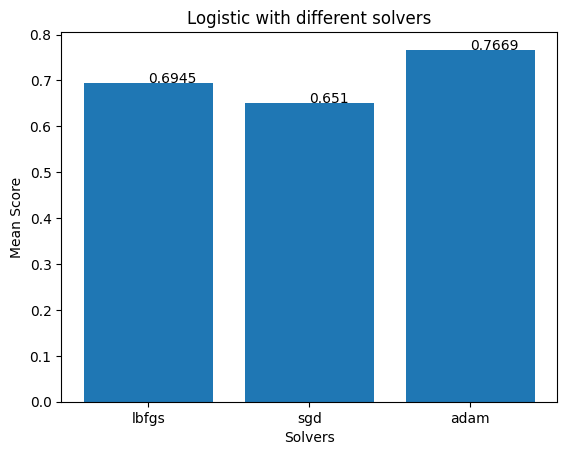
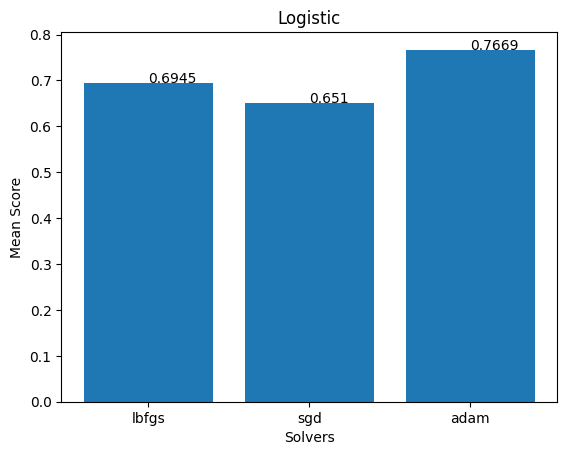
Split files and made more tests

Changed region(s): [[0.3298, 0.0, 0.7795, 0.0615]]

diff --git a/TestCase2-Hidden_Layers.py b/TestCase2-Hidden_Layers.py
@@ -1,12 +1,9 @@
 import pandas as pd
-import numpy as np
 import matplotlib.pyplot as plt
-import random
 from sklearn.model_selection import train_test_split
 from sklearn.preprocessing import StandardScaler
 from sklearn.neural_network import MLPClassifier
 from sklearn.metrics import confusion_matrix
-
 
 # Function to split data into test and training data
 def split_data(csv, train_ratio, random_val, scale=True):
@@ -31,53 +28,6 @@ def neural_network(data, hidden_layer_size, activation, solver, max_iter, shuffl
     prediction = mlp.predict(data[1])
     return [prediction, confusion_matrix(data[3], prediction), mlp.score(data[1], data[3])]
 
-# Test different combinations of activation functions and solvers
-def activation_solver_test(csv):
-    # Different activation and solver combinations
-    activations = ["identity", "logistic", "tanh", "relu"]
-    solvers = ["lbfgs", "sgd", "adam"]
-
-    # Test variables
-    num_test = 20
-    max_iteration = 50000
-    hidden_layer = (20, 20)
-    train_ratio = 0.8
-    compiled_results = [[] for i in range(len(activations))]
-    plt.figure()
-
-    # Run tests
-    for test in range(num_test):
-        print("Test run {} beginning".format(test+1))
-        data = split_data(csv, train_ratio, test, True)
-        for activation in activations:
-            for solver in solvers:
-                compiled_results[activations.index(activation)].append(neural_network(data, hidden_layer, activation, solver, max_iteration, False, test))
-            print("Activation {} completed".format(activation.upper()))
-        print("Test run {} completed\n".format(test+1))
-
-    # Plotting Figures
-    for i in range(len(activations)):
-        avg_score = []
-        
-        # Calculating mean score of all test
-        for j in range(len(solvers)):
-            avg_score.append((sum([result[2] for result in compiled_results[i][j::3]])/num_test))
-        
-        # Adding score value to figure
-        for j in range(len(solvers)):
-            plt.text(j, avg_score[j], round(avg_score[j], 4))
-
-        # Plotting
-        plt.bar(solvers, avg_score)
-        plt.title(activations[i].capitalize())
-        plt.ylabel("Mean Score")
-        plt.xlabel("Solvers")
-        plt.savefig("figures/activation_solver_test/{} with different solvers".format(activations[i].capitalize()),bbox_inches="tight")
-        plt.show()
-        plt.figure()
-
-    print("Activation-Solver test completed")
-
 # Test different number of hidden layer and neurons in each layer
 def hidden_layer_test(csv):
     # Best activation function and solver combination found
@@ -87,8 +37,8 @@ def hidden_layer_test(csv):
     # Test variables
     num_test = 20
     train_ratio = 0.8
-    max_layers = 5
-    max_neuron = 40
+    max_layers = 6
+    max_neuron = 60
     neuron_iterate = 1
     max_iteration = 50000
     results = [[[] for j in range(max_neuron//neuron_iterate)] for i in range(max_layers)]
@@ -115,7 +65,6 @@ def hidden_layer_test(csv):
 
         # Plotting
         plt.plot(x, y, "bo--")
-        y_min, y_max = plt.gca().get_ylim()
         for i,j in zip(x,y):
             if j != y[i//neuron_iterate-2]:
                 plt.annotate(str(round(j,4)),xy=(i,j))
@@ -126,16 +75,12 @@ def hidden_layer_test(csv):
         plt.savefig("figures/hidden_layer_test/{} Hidden Layer".format(num_layer+1),bbox_inches="tight")
         plt.show()
         plt.figure()
-        
-        
-def iteration_test(csv):
-    pass
 
 def main():
     # Reading csv file into dataframe
     csv = pd.read_csv("diabetes.csv")
-
-    # activation_solver_test(csv)
+    
+    # Run test function
     hidden_layer_test(csv)
 
 if __name__ == "__main__":

diff --git a/TestCase1-Activation_and_Solver.py b/TestCase1-Activation_and_Solver.py
@@ -1,0 +1,86 @@
+import pandas as pd
+import matplotlib.pyplot as plt
+from sklearn.model_selection import train_test_split
+from sklearn.preprocessing import StandardScaler
+from sklearn.neural_network import MLPClassifier
+from sklearn.metrics import confusion_matrix
+
+# Function to split data into test and training data
+def split_data(csv, train_ratio, random_val, scale=True):
+    # Splitting values into results and training data
+    result = csv.loc[:,'Outcome']
+    data = csv.drop('Outcome', 'columns')
+    x_train, x_test, y_train, y_test = train_test_split(data, result, train_size=train_ratio, random_state=random_val)
+
+    if scale:
+        # Scaling values
+        scaler = StandardScaler()
+        scaler.fit(x_train)
+        x_train = scaler.transform(x_train)
+        x_test = scaler.transform(x_test)
+
+    return [x_train, x_test, y_train, y_test]
+
+# Generates neural network and runs fitting and prediction. Returns predictions, confusion matrix, and score
+def neural_network(data, hidden_layer_size, activation, solver, max_iter, shuffle = True, random_state = None):
+    mlp = MLPClassifier(hidden_layer_size, activation=activation, solver=solver, max_iter=max_iter, shuffle=shuffle, random_state=random_state)
+    mlp.fit(data[0], data[2])
+    prediction = mlp.predict(data[1])
+    return [prediction, confusion_matrix(data[3], prediction), mlp.score(data[1], data[3])]
+
+# Test different combinations of activation functions and solvers
+def activation_solver_test(csv):
+    # Different activation and solver combinations
+    activations = ["identity", "logistic", "tanh", "relu"]
+    solvers = ["lbfgs", "sgd", "adam"]
+
+    # Test variables
+    num_test = 20
+    max_iteration = 50000
+    hidden_layer = (20, 20)
+    train_ratio = 0.8
+    compiled_results = [[] for i in range(len(activations))]
+    plt.figure()
+
+    # Run tests
+    for test in range(num_test):
+        print("Test run {} beginning".format(test+1))
+        data = split_data(csv, train_ratio, test, True)
+        for activation in activations:
+            for solver in solvers:
+                compiled_results[activations.index(activation)].append(neural_network(data, hidden_layer, activation, solver, max_iteration, False, test))
+            print("Activation {} completed".format(activation.upper()))
+        print("Test run {} completed\n".format(test+1))
+
+    # Plotting Figures
+    for i in range(len(activations)):
+        avg_score = []
+        
+        # Calculating mean score of all test
+        for j in range(len(solvers)):
+            avg_score.append((sum([result[2] for result in compiled_results[i][j::3]])/num_test))
+        
+        # Adding score value to figure
+        for j in range(len(solvers)):
+            plt.text(j, avg_score[j], round(avg_score[j], 4))
+
+        # Plotting
+        plt.bar(solvers, avg_score)
+        plt.title(activations[i].capitalize())
+        plt.ylabel("Mean Score")
+        plt.xlabel("Solvers")
+        plt.savefig("figures/activation_solver_test/{} with different solvers".format(activations[i].capitalize()),bbox_inches="tight")
+        plt.show()
+        plt.figure()
+
+    print("Activation-Solver test completed")
+
+def main():
+    # Reading csv file into dataframe
+    csv = pd.read_csv("diabetes.csv")
+    
+    # Test function
+    activation_solver_test(csv)
+
+if __name__ == "__main__":
+    main()

diff --git a/TestCase3-Iteration_test.py b/TestCase3-Iteration_test.py
@@ -1,0 +1,76 @@
+import pandas as pd
+import matplotlib.pyplot as plt
+from sklearn.model_selection import train_test_split
+from sklearn.preprocessing import StandardScaler
+from sklearn.neural_network import MLPClassifier
+from sklearn.metrics import confusion_matrix
+
+# Function to split data into test and training data
+def split_data(csv, train_ratio, random_val, scale=True):
+    # Splitting values into results and training data
+    result = csv.loc[:,'Outcome']
+    data = csv.drop('Outcome', 'columns')
+    x_train, x_test, y_train, y_test = train_test_split(data, result, train_size=train_ratio, random_state=random_val)
+
+    if scale:
+        # Scaling values
+        scaler = StandardScaler()
+        scaler.fit(x_train)
+        x_train = scaler.transform(x_train)
+        x_test = scaler.transform(x_test)
+
+    return [x_train, x_test, y_train, y_test]
+
+# Generates neural network and runs fitting and prediction. Returns predictions, confusion matrix, and score
+def neural_network(data, hidden_layer_size, activation, solver, max_iter, shuffle = True, random_state = None):
+    mlp = MLPClassifier(hidden_layer_size, activation=activation, solver=solver, max_iter=max_iter, shuffle=shuffle, random_state=random_state)
+    mlp.fit(data[0], data[2])
+    prediction = mlp.predict(data[1])
+    return [prediction, confusion_matrix(data[3], prediction), mlp.score(data[1], data[3])]
+
+def iteration_test(csv):
+    # Best activation function and solver combination found
+    activation = "identity"
+    solver = "lbfgs"
+    
+    # Test variables
+    num_test = 20
+    train_ratio = 0.8
+    hidden_layer = (6, 6, 6, 6)
+    iteration_cap = 1000
+    iteration_hops = 5
+    results = [[] for count in range(iteration_cap//iteration_hops)]
+
+    # Run test
+    for test in range(num_test):
+        print("Test run {} beginning".format(test+1))
+        data = split_data(csv, train_ratio, test, True)
+        for max_iteration in range(iteration_hops, iteration_cap+iteration_hops, iteration_hops):
+            results[max_iteration//iteration_hops-1].append(neural_network(data, hidden_layer, activation, solver, max_iteration, False, test)[2])
+        print("Test run {} completed\n".format(test+1))
+        
+    # Plotting Figure
+    x = [max_iteration for max_iteration in range(iteration_hops, iteration_cap+iteration_hops, iteration_hops)]
+    y = [sum(result)/num_test for result in results]
+
+    plt.figure()
+    plt.plot(x,y)
+    for i,j in zip(x,y):
+            if j != y[i//iteration_hops-2]:
+                plt.annotate(str(round(j,4)),xy=(i,j))
+                
+    plt.title("Iteration Test")
+    plt.ylabel("Mean Score")
+    plt.xlabel("Number of Iterations")
+    plt.savefig("figures/iteration_test/Iteration Test",bbox_inches="tight")
+    plt.show()
+
+def main():
+    # Reading csv file into dataframe
+    csv = pd.read_csv("diabetes.csv")
+    
+    # Run test function
+    iteration_test(csv)
+
+if __name__ == "__main__":
+    main()

diff --git a/FinalTest.py b/FinalTest.py
@@ -1,0 +1,67 @@
+import pandas as pd
+import matplotlib.pyplot as plt
+from sklearn.model_selection import train_test_split
+from sklearn.preprocessing import StandardScaler
+from sklearn.neural_network import MLPClassifier
+from sklearn.metrics import confusion_matrix
+
+# Function to split data into test and training data
+def split_data(csv, train_ratio, random_val, scale=True):
+    # Splitting values into results and training data
+    result = csv.loc[:,'Outcome']
+    data = csv.drop('Outcome', 'columns')
+    x_train, x_test, y_train, y_test = train_test_split(data, result, train_size=train_ratio, random_state=random_val)
+
+    if scale:
+        # Scaling values
+        scaler = StandardScaler()
+        scaler.fit(x_train)
+        x_train = scaler.transform(x_train)
+        x_test = scaler.transform(x_test)
+
+    return [x_train, x_test, y_train, y_test]
+
+# Generates neural network and runs fitting and prediction. Returns predictions, confusion matrix, and score
+def neural_network(data, hidden_layer_size, activation, solver, max_iter, shuffle = True, random_state = None):
+    mlp = MLPClassifier(hidden_layer_size, activation=activation, solver=solver, max_iter=max_iter, shuffle=shuffle, random_state=random_state)
+    mlp.fit(data[0], data[2])
+    prediction = mlp.predict(data[1])
+    return [prediction, confusion_matrix(data[3], prediction), mlp.score(data[1], data[3])]
+
+# Test performance with all optimized values
+def final_test(csv):
+    # Best activation function and solver combination found
+    activation = "identity"
+    solver = "lbfgs"
+    
+    # Test variables
+    num_test = 5
+    train_ratio = 0.8
+    hidden_layer = (6, 6, 6, 6)
+    max_iteration = 100
+    results = [[], []]
+
+    # Run test
+    for test in range(num_test):
+        print("Test run {} beginning".format(test+1))
+        data = split_data(csv, train_ratio, test, True)
+        result = neural_network(data, hidden_layer, activation, solver, max_iteration, True, test)
+        results[0].append(result[1])
+        results[1].append(result[2])
+        print("Test run {} completed\n".format(test+1))
+        
+    # Compile and print results
+    mean_score = sum(results[1])/num_test
+    print("Mean Score: {}".format(mean_score))
+    print("Summed Confusion Matrix:")
+    print(sum(results[0]))
+
+def main():
+    # Reading csv file into dataframe
+    csv = pd.read_csv("diabetes.csv")
+
+    # Run test function
+    final_test(csv)
+
+if __name__ == "__main__":
+    main()
